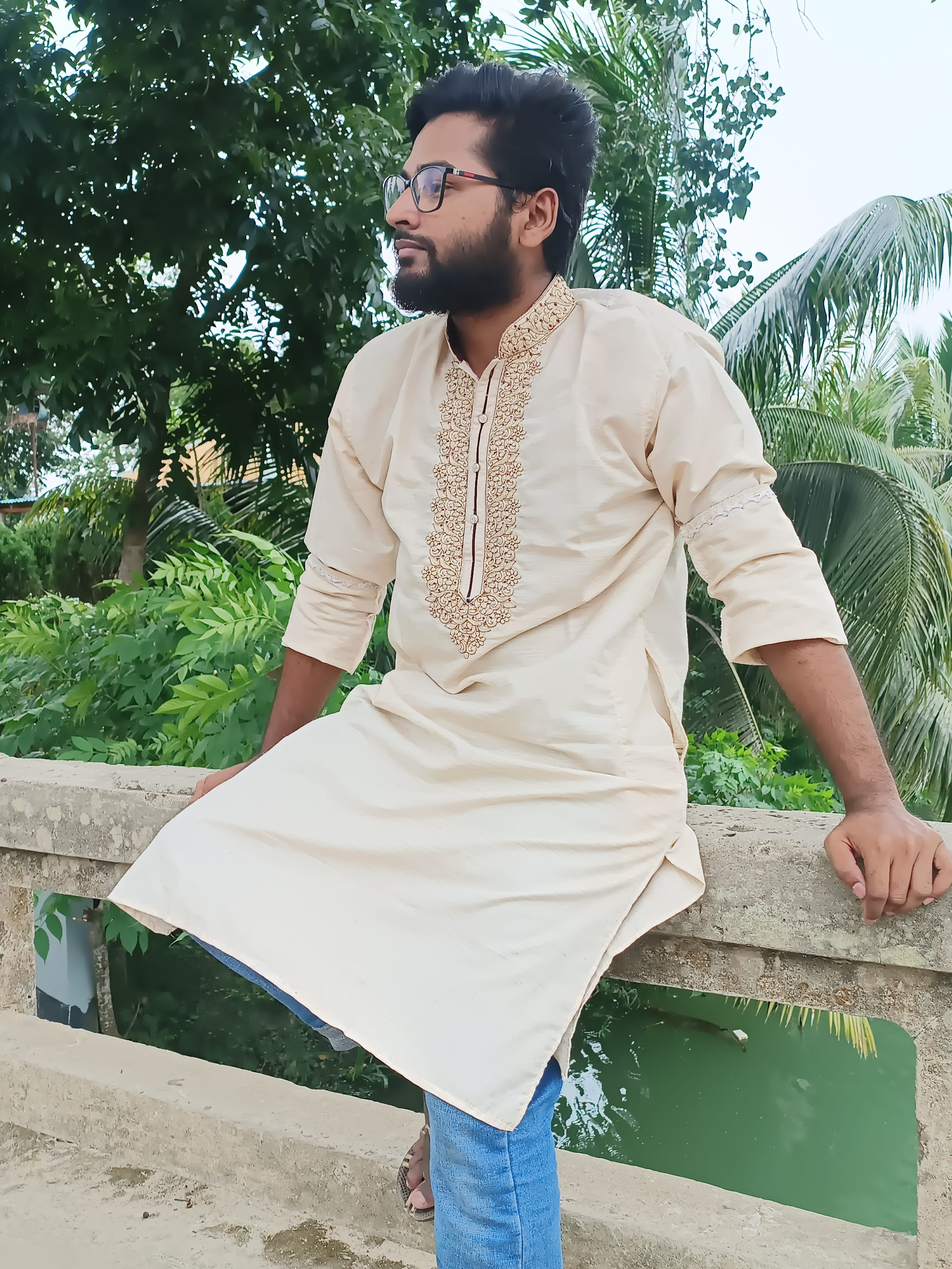
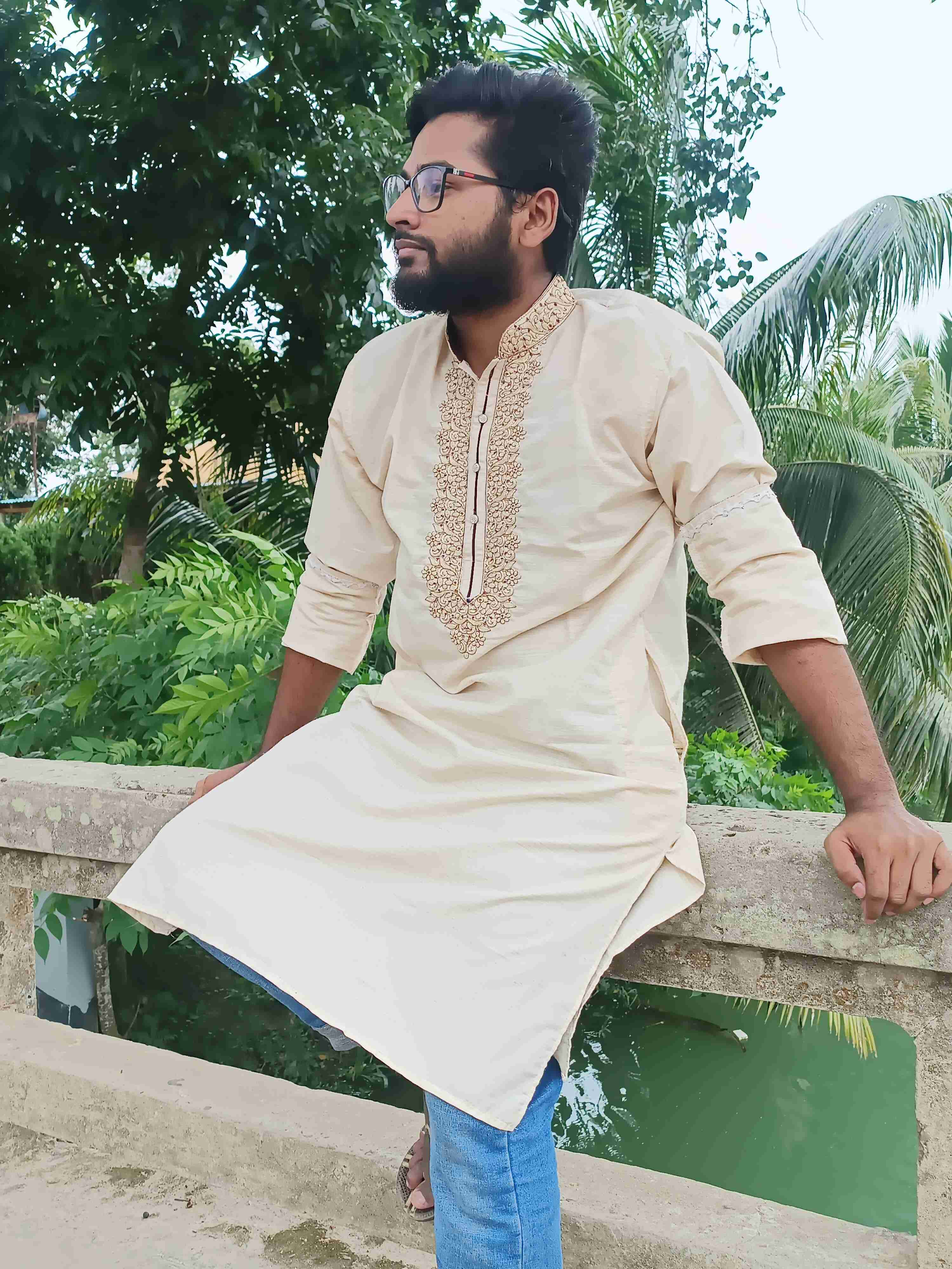
picture change and some major changed

diff --git a/custom/css/style.css b/custom/css/style.css
@@ -380,6 +380,10 @@ nav {
     background: tomato;
 }
 
+#about-me .about-content .content-section img {
+    width: 70%;
+}
+
 
 /* about me section */
 
@@ -713,5 +717,9 @@ canvas {
         top: 50%;
         height: 5%;
         width: 50%;
+    }
+
+    #about-me .about-content .content-section img {
+        width: 100%;
     }
 }
